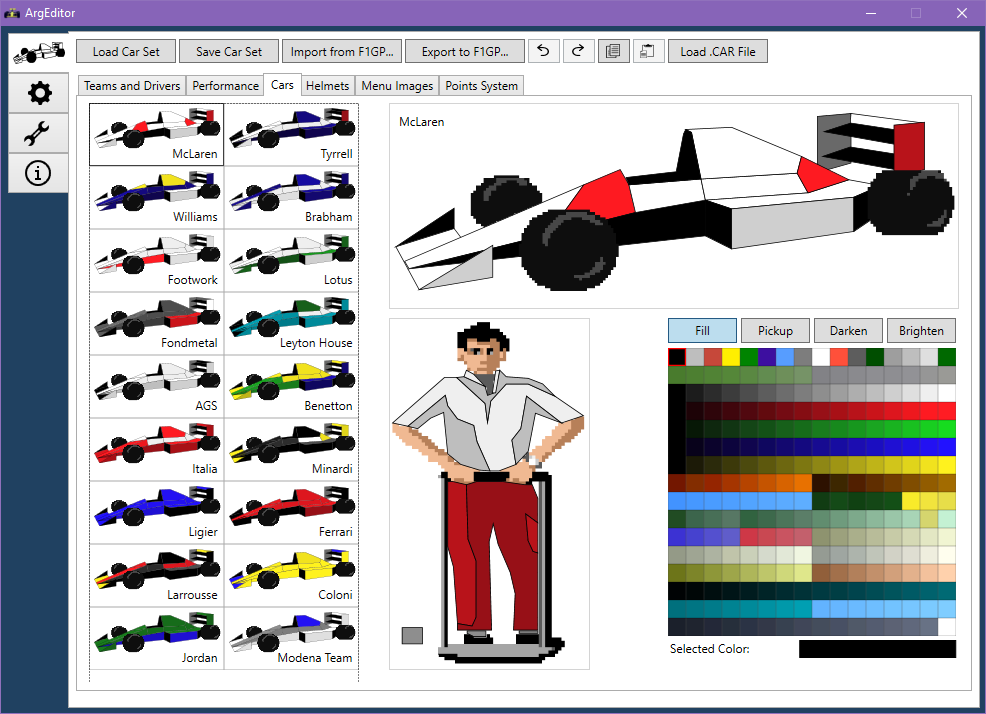
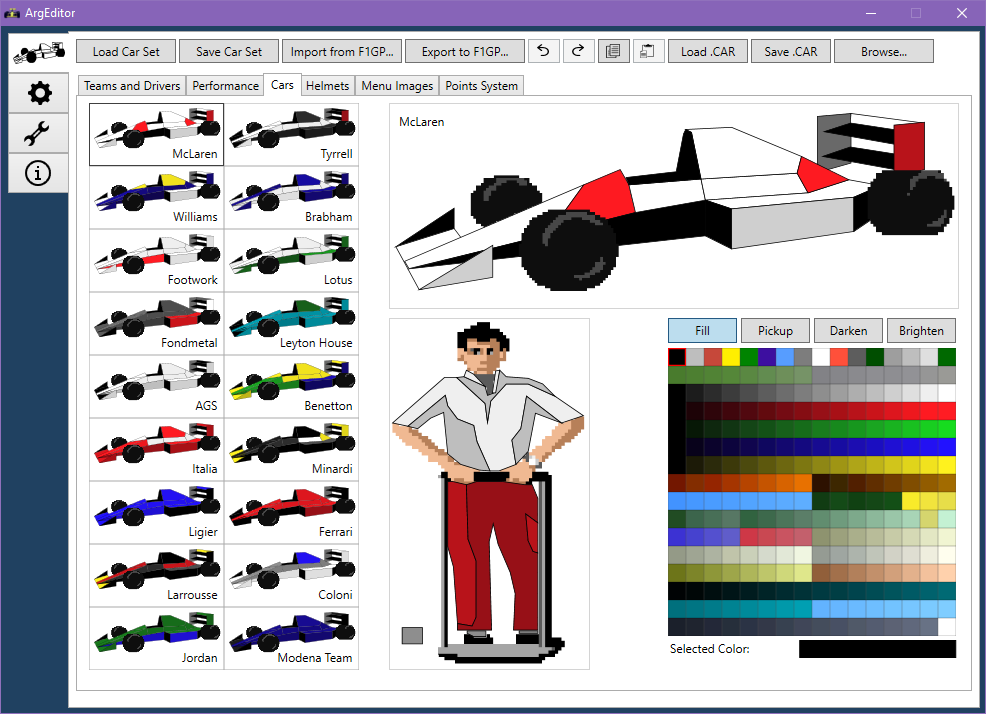
Update documentation

diff --git a/Docs/site/content/carset-screen.md b/Docs/site/content/carset-screen.md
@@ -55,7 +55,7 @@ with a red diagonal stripe across the nose cone.
 
 <img alt="Performance tab screenshot" src="/argeditor/images/performance.png" class="img-fluid" />
 
-Each team has a horsepower value (HP) which determine how fast the cars will be in a straight line,
+Each team has a horsepower value (HP) which determines how fast the cars will be in a straight line,
 where higher is better.
 
 Drivers have two performance levels, one for qualifying and one for the race. A lower
@@ -65,6 +65,13 @@ a "penalty" that slows the driver down.
 Apart from entering a numerical value with the keyboard, you can also use the + and -
 keys to increase/decrease the values. If you hold down the Shift key, values will
 increase/decrease by 10.
+
+If the "Sync Qual./Race" checkbox at the top is checked, editing a qualifying performance
+value will update the driver's race performance value, and vice versa. You can keep this
+checked during initial editing, and then uncheck it for final adjustments.
+
+The "Qual. > Race" and "Race > Qual." buttons can be used to quickly transfer all
+performance values from one of the categories to the other.
 
 On the right you will see a rough estimate of how drivers will perform relative
 to each other. When you are editing a driver, they will be displayed in bold text in the list.
@@ -131,9 +138,23 @@ a context menu appears. It has three actions:
 * Copy, which copies the selected car to the clipboard
 * Paste, which pastes a car from the clipboard to the selected position
 * Load .CAR File, which allows you to load a .CAR file from disk to update the selected car
+* Save .CAR File, which allows you to save a .CAR file to disk containing the selected car's colors
 
 These options are also available for the currently selected car in the toolbar
 above the tab.
+
+To quickly choose car colors or pit crew colors from an existing ArgEditor car set file, F1GP .EXE file,
+old F1Ed car set file (.1ED) or from a single .CAR file, you can click the "Browse..." button at the top.
+A new window will appear. By clicking the "Browse..." button in the
+new window, you can choose an existing car set, EXE file, 1ED file or CAR file to read existing car colors
+and pit crew colors from.
+
+Once you have chosen a file, each car and pit crew found in the file will be displayed.
+
+<img alt="Browse car colors screenshot" src="/argeditor/images/browse-car-colors.png" class="img-fluid" />
+
+By clicking on one of the cars or pit crews and then clicking OK, you will paint the currently
+selected car or pit crew with the colors of the selected item.
 
 
 You can paint all cars, including those that belong to teams that have no active drivers.
@@ -156,9 +177,23 @@ a context menu appears. It has three actions:
 * Copy, which copies the selected helmet to the clipboard
 * Paste, which pastes a helmet from the clipboard to the selected position
 * Load .HEL File, which allows you to load a .HEL file from disk to update the selected helmet
+* Save .HEL File, which allows you to save a .HEL file to disk containing the selected helmet's colors
 
 These options are also available for the currently selected car in the toolbar
 above the tab.
+
+To quickly choose helmet colors colors from an existing ArgEditor car set file, F1GP .EXE file,
+old F1Ed car set file (.1ED) or from a single .CAR file, you can click the "Browse..." button at the top.
+A new window will appear. By clicking the "Browse..." button in the
+new window, you can choose an existing car set, EXE file, 1ED file or CAR file to read existing car colors
+and pit crew colors from.
+
+Once you have chosen a file, each helmet found in the file will be displayed.
+
+<img alt="Browse helmet colors screenshot" src="/argeditor/images/browse-helmet-colors.png" class="img-fluid" />
+
+By clicking on one of the helmets and then clicking OK, you will paint the currently
+selected helmet with the colors of the selected item.
 
 You can paint all helmets, including those that belong to drivers that are not active.
 However, an inactive driver will not appear in the game. One area of usage could be
